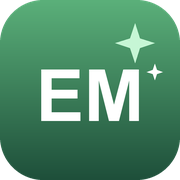
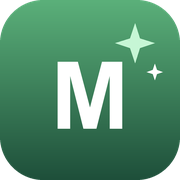
feat(easymaid): rebrand client deploy to Maidurday Cleaning Service and serve maidurday.com

Changed region(s): [[0.2222, 0.3333, 0.7778, 0.7222]]

diff --git a/apps/easy_maid/easy_maid/easy_maid/setup/bootstrap.py b/apps/easy_maid/easy_maid/easy_maid/setup/bootstrap.py
@@ -4,7 +4,8 @@ import frappe
 from frappe import _
 from frappe.utils import getdate, today
 
-COMPANY = "Easy Maid Service"
+COMPANY = "Maidurday Cleaning Service"
+BRAND = COMPANY
 ABBR = "EMS"
 CURRENCY = "USD"
 COUNTRY = "United States"
@@ -402,13 +403,16 @@ def _ensure_navbar_branding():
 
 
 def _ensure_easy_maid_workspace():
-    """Create a public Easy Maid workspace to land on in the Desk."""
+    """Create a public Maidurday workspace to land on in the Desk."""
     if not frappe.db.exists("DocType", "Workspace"):
         return False
     try:
         import json as _json
 
-        title = "Easy Maid"
+        title = "Maidurday"
+        # Remove any legacy Easy Maid workspace so Maidurday is the sole landing page.
+        if title != "Easy Maid" and frappe.db.exists("Workspace", "Easy Maid"):
+            frappe.delete_doc("Workspace", "Easy Maid", ignore_permissions=True, force=1)
         shortcuts = [
             {"type": "DocType", "link_to": "Booking", "label": "Bookings", "color": "Green"},
             {"type": "DocType", "link_to": "Service Visit", "label": "Service Visits", "color": "Blue"},
@@ -427,7 +431,7 @@ def _ensure_easy_maid_workspace():
         ]
         content = _json.dumps(
             [
-                {"id": "em_header", "type": "header", "data": {"text": "<span class=\"h4\"><b>Easy Maid</b></span>", "col": 12}},
+                {"id": "em_header", "type": "header", "data": {"text": "<span class=\"h4\"><b>Maidurday</b></span>", "col": 12}},
                 {"id": "em_sc_book", "type": "shortcut", "data": {"shortcut_name": "Bookings", "col": 3}},
                 {"id": "em_sc_visit", "type": "shortcut", "data": {"shortcut_name": "Service Visits", "col": 3}},
                 {"id": "em_sc_crew", "type": "shortcut", "data": {"shortcut_name": "Crew Assignments", "col": 3}},
@@ -472,9 +476,9 @@ def _ensure_letter_head(company_name: str):
     content = """
 <div style='font-family:Arial,sans-serif;'>
   <div style='display:flex;align-items:center;gap:10px;'>
-    <img src='/assets/easy_maid/brand/logo-mark.svg' alt='Easy Maid' style='height:34px;' />
+    <img src='/assets/easy_maid/brand/logo-mark.svg' alt='Maidurday' style='height:34px;' />
     <div>
-      <strong>Easy Maid Service</strong><br />
+      <strong>Maidurday Cleaning Service</strong><br />
       New Jersey, USA
     </div>
   </div>
@@ -487,7 +491,7 @@ def _ensure_letter_head(company_name: str):
         head = frappe.get_doc({"doctype": "Letter Head", "letter_head_name": name, "company": company_name})
 
     head.content = content
-    head.footer = "Thank you for choosing Easy Maid Service"
+    head.footer = "Thank you for choosing Maidurday Cleaning Service"
     head.is_default = 1
     if head.is_new():
         head.insert(ignore_permissions=True)

diff --git a/brand/generate_assets.py b/brand/generate_assets.py
@@ -1,5 +1,5 @@
 #!/usr/bin/env python3
-"""Generate Easy Maid Service starter brand assets (raster).
+"""Generate Maidurday Cleaning Service starter brand assets (raster).
 
 Run:  ../.venv-assets/bin/python generate_assets.py
 Produces PNG icons + favicon.ico from a single supersampled badge mark.
@@ -81,9 +81,9 @@ def make_mark(size):
     img.paste(badge, (0, 0), mask)
     draw = ImageDraw.Draw(img)
 
-    # Monogram "EM"
-    font = load_font(int(s * 0.40))
-    text = "EM"
+    # Monogram "M"
+    font = load_font(int(s * 0.52))
+    text = "M"
     bbox = draw.textbbox((0, 0), text, font=font)
     tw, th = bbox[2] - bbox[0], bbox[3] - bbox[1]
     tx = (s - tw) / 2 - bbox[0]
@@ -103,10 +103,10 @@ def make_wordmark():
     gap = 40
     pad = 36
 
-    f1 = load_font(132)
-    f2 = load_font(60)
-    line1 = "Easy Maid"
-    line2 = "S E R V I C E"
+    f1 = load_font(120)
+    f2 = load_font(50)
+    line1 = "Maidurday"
+    line2 = "CLEANING SERVICE"
 
     tmp = Image.new("RGBA", (10, 10))
     d = ImageDraw.Draw(tmp)
@@ -121,8 +121,8 @@ def make_wordmark():
 
     draw = ImageDraw.Draw(canvas)
     text_x = pad + mark_size + gap
-    draw.text((text_x, H // 2 - 128), line1, font=f1, fill=TEAL_TEXT)
-    draw.text((text_x, H // 2 + 40), line2, font=f2, fill=SLATE)
+    draw.text((text_x, H // 2 - 116), line1, font=f1, fill=TEAL_TEXT)
+    draw.text((text_x, H // 2 + 34), line2, font=f2, fill=SLATE)
     return canvas
 
 

diff --git a/apps/easy_maid/easy_maid/hooks.py b/apps/easy_maid/easy_maid/hooks.py
@@ -1,6 +1,6 @@
 app_name = "easy_maid"
-app_title = "Easy Maid"
-app_publisher = "Easy Maid Service"
+app_title = "Maidurday Cleaning Service"
+app_publisher = "Maidurday Cleaning Service"
 app_description = "Cleaning-company back-office and customer portal on Frappe/ERPNext."
 app_email = "trecto28@gmail.com"
 app_license = "MIT"
@@ -97,8 +97,8 @@ add_to_apps_screen = [
 	{
 		"name": "easy_maid",
 		"logo": "/assets/easy_maid/brand/logo-mark.svg",
-		"title": "Easy Maid",
-		"route": "/app/easy-maid",
+		"title": "Maidurday",
+		"route": "/app/maidurday",
 	}
 ]
 
